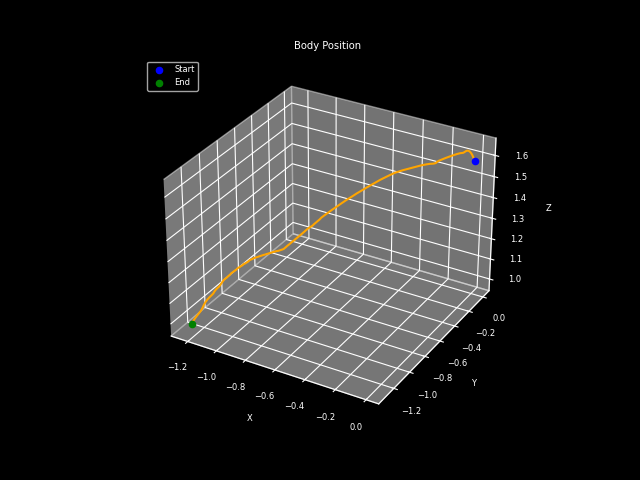
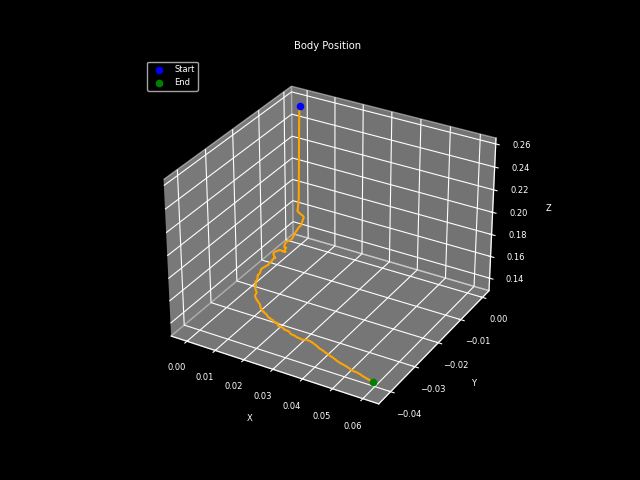
camera coefficient updates

diff --git a/spider_bot/environments.py b/spider_bot/environments.py
@@ -164,12 +164,12 @@ class SpiderBotSimulator(Env):
         keys = pb.getKeyboardEvents()
         if keys and verbose: ic(keys)  # display keys that got pressed to see their id easily 
         
-        self.camera.change_x(int(bool(keys.get(65306))) * (0.25 if keys.get(65296) else -0.25 if keys.get(65295) else 0))
-        self.camera.change_y(int(bool(keys.get(65306))) * (0.25 if keys.get(65297) else -0.25 if keys.get(65298) else 0))
-        self.camera.change_global_z(0.25 if keys.get(97) else -0.25 if keys.get(100) else 0)
+        self.camera.change_x(int(bool(keys.get(65306))) * (0.1 if keys.get(65296) else -0.25 if keys.get(65295) else 0))
+        self.camera.change_y(int(bool(keys.get(65306))) * (0.1 if keys.get(65297) else -0.25 if keys.get(65298) else 0))
+        self.camera.change_global_z(0.25 if keys.get(97) else -0.1 if keys.get(100) else 0)
         self.camera.change_yaw(int(not keys.get(65306)) * (1 if keys.get(65296) else -1 if keys.get(65295) else 0))
         self.camera.change_pitch(int(not keys.get(65306)) * (1 if keys.get(65298) else -1 if keys.get(65297) else 0))
-        self.camera.change_zoom(0.25 if keys.get(113) else -0.25 if keys.get(101) else 0)
+        self.camera.change_zoom(0.25 if keys.get(113) else -0.1 if keys.get(101) else 0)
             
         
         if keys.get(99) == 3:

diff --git a/spider_bot/camera.py b/spider_bot/camera.py
@@ -23,7 +23,7 @@ class Camera:
         self.pos_func = lambda: self.pos
         self.yaw = 10
         self.pitch = -15
-        self.dist = 5
+        self.dist = 1
         self.target_lock = False
         
         self.rotate_cw = rotation_generator(-90)
@@ -62,7 +62,7 @@ class Camera:
         
     def track_target(self, pos_func):
         self.pos_func = pos_func
-        self.dist = 5
+        self.dist = 1
         
     def clear_target(self):
         self.pos_func = lambda: self.pos
@@ -72,6 +72,6 @@ class Camera:
         self.pos_func = lambda: self.pos
         self.yaw = 10
         self.pitch = -15
-        self.dist = 5
+        self.dist = 1
         self.target_lock = False
         

diff --git a/spider_bot/spider_bot_model.py b/spider_bot/spider_bot_model.py
@@ -7,7 +7,7 @@ import pybullet as pb
 import numpy as np
 
 class SpiderBot:
-    def __init__(self, model_path: str, initial_pos: tuple = (0, 0, 1.5625)) -> None:
+    def __init__(self, model_path: str, initial_pos: tuple = (0, 0, 0.2625)) -> None:
         self.model_path = model_path
         self.id = pb.loadURDF(self.model_path, initial_pos, flags=pb.URDF_USE_SELF_COLLISION)
         self.num_joints = pb.getNumJoints(self.id)
